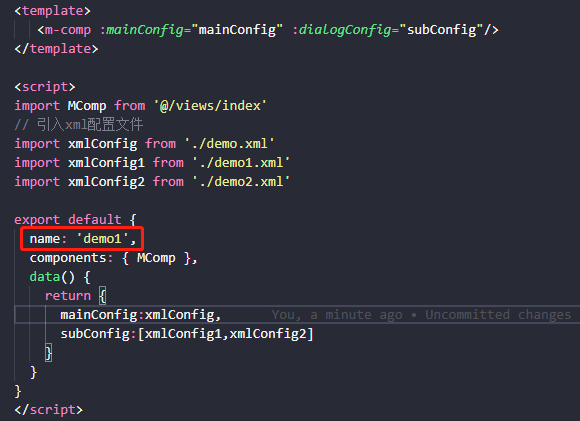
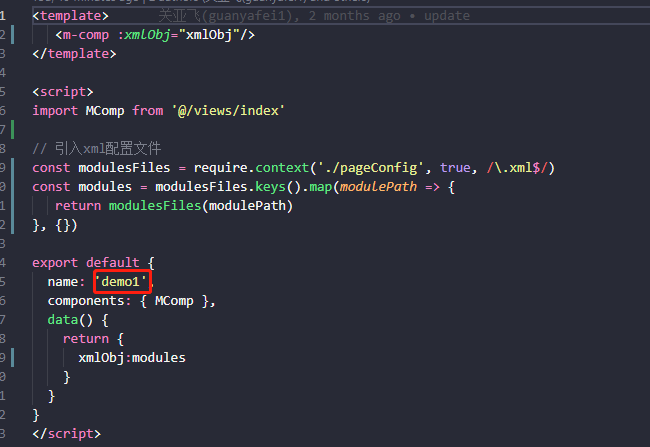
update

Changed region(s): [[0.0, 0.1544, 1.0, 0.9881], [0.0, 0.0, 0.869, 0.1544]]

diff --git a/src/views/index.vue b/src/views/index.vue
@@ -37,11 +37,7 @@ export default {
     }
   },
   props: {
-    mainConfig: {
-      type: Object,
-      default: () => ({})
-    },
-    dialogConfig: {
+    xmlObj: {
       type: Array,
       default: () => []
     }
@@ -50,7 +46,7 @@ export default {
   data() {
     return {
       alertTip: '此操作不可逆, 是否继续?',
-      xmlConfig: this.mainConfig,
+      xmlConfig: null,
       handle: {},
       updateDateObj: {},
       handleMapping: {},
@@ -63,15 +59,12 @@ export default {
     }
   },
   created() {
-    this.xmlConfig= deepClone(this.mainConfig)
-    if (this.xmlConfig === null || !isEmptyObj(this.xmlConfig.root)) return
-    let root = null
-    root = this.xmlConfig.root || {}
-    this.mergeXmlData(root)
-    this.setPopupsConfig(root,['dialog','alert'])
-    this.idToHandle(root)
-    this.rootData = Object.assign(this.rootData,root)
-    this.idToFun()
+    this.xmlConfig= deepClone(this.xmlObj)
+    if (this.xmlConfig === null || this.xmlConfig.length===0) return
+    this.mergeXmlData(this.xmlConfig)
+    this.setPopupsConfig(this.xmlConfig,['dialog','alert'])
+    this.idToHandle(this.rootData)
+    this.idToSubmitFun()
     this.optionItems = options[this.$route.name] || {}
   },
   computed:{
@@ -83,19 +76,19 @@ export default {
   mounted() {},
   methods: {
     // 数据合并
-    mergeXmlData(root){
-      let itemObj=null
-      if(this.dialogConfig.length>0){
-          for(let i=0;i<this.dialogConfig.length;i++){
-            itemObj = this.dialogConfig[i].root
-            Object.keys(itemObj).forEach(key=>{
-              if(!root.hasOwnProperty(key)){
-                root[key] = []
-              }
-               root[key].splice(0,0,...itemObj[key])
-            })
+    mergeXmlData(configs){
+      if(configs.length<1) return
+      let itemObj=null,firstItem = configs.shift();
+      for(let i=0;i<configs.length;i++){
+        itemObj = configs[i].root
+        Object.keys(itemObj).forEach(key=>{
+          if(!firstItem.root.hasOwnProperty(key)){
+            firstItem.root[key] = []
           }
+            firstItem.root[key].splice(0,0,...itemObj[key])
+        })
       }
+      this.rootData = Object.assign(this.rootData,firstItem['root'])
     },
     // id与handle映射
     idToHandle(root) {
@@ -125,20 +118,24 @@ export default {
       return root;
     },
     // 弹窗处理--多个按钮操作一个弹窗  dialog
-    setPopupsConfig(root,keys=[]) {
-      for(let j=0;j<keys.length;j++){
-        let key = keys[j]
-        if (root[key] && root[key].length > 0) {
-          const tempArr = [];let tempId = 0;let item = null;
-          for(let i=root[key].length-1;i >= 0; i--){
-            item = root[key][i];
-            tempId = item.$._id
-            if (!tempId || !tempId.includes('|')) continue
-            tempArr.push(...this.doubleIdReset(item,tempId))
+    setPopupsConfig(configs,keys=[]) {
+      let cfgItem = null
+      for(let i=0;i<configs.length;i++){
+        cfgItem = configs[i].root || []
+        for(let j=0;j<keys.length;j++){
+          let key = keys[j]
+          if (cfgItem[key] && cfgItem[key].length > 0) {
+            const tempArr = [];let tempId = 0;let item = null;
+            for(let i=cfgItem[key].length-1;i >= 0; i--){
+              item = cfgItem[key][i];
+              tempId = item.$._id
+              if (!tempId || !tempId.includes('|')) continue
+              tempArr.push(...this.doubleIdReset(item,tempId))
+            }
+            cfgItem[key].splice(0,0,...tempArr)
+            this.delDoubleId(cfgItem,key)
           }
-          root[key].splice(0,0,...tempArr)
         }
-        this.delDoubleId(root,key)
       }
     },
     // 双_id配置项数据重组设置
@@ -174,8 +171,8 @@ export default {
         if(tempId && tempId.includes('|')) root[key].splice(i, 1)
       }
     },
-    // id to fun params查询参数
-    idToFun() {
+    // id to fun params查询
+    idToSubmitFun() {
       Object.keys(this.handleMapping).map(itemKey => {
         if (isEmptyObj(this.handleMapping[itemKey]._id)) {
           // btnConfig 用于主页面查询  新增

diff --git a/src/views/demo/demo1/index.vue b/src/views/demo/demo1/index.vue
@@ -1,21 +1,22 @@
 <template>
-   <m-comp :mainConfig="mainConfig" :dialogConfig="subConfig"/>
+   <m-comp :xmlObj="xmlObj"/>
 </template>
 
 <script>
 import MComp from '@/views/index'
+
 // 引入xml配置文件
-import xmlConfig from './demo.xml'
-import xmlConfig1 from './demo1.xml'
-import xmlConfig2 from './demo2.xml'
+const modulesFiles = require.context('./pageConfig', true, /\.xml$/)
+const modules = modulesFiles.keys().map(modulePath => {
+   return modulesFiles(modulePath)
+}, {})
 
 export default {
   name: 'demo1',
   components: { MComp },
   data() {
     return {
-      mainConfig:xmlConfig,
-      subConfig:[xmlConfig1,xmlConfig2]
+      xmlObj:modules
     }
   }
 }

diff --git a/src/store/index.js b/src/store/index.js
@@ -4,11 +4,8 @@ import getters from './getters'
 
 Vue.use(Vuex)
 
-// https://webpack.js.org/guides/dependency-management/#requirecontext
 const modulesFiles = require.context('./modules', true, /\.js$/)
 
-// you do not need `import app from './modules/app'`
-// it will auto require all vuex module from modules file
 const modules = modulesFiles.keys().reduce((modules, modulePath) => {
     // set './app.js' => 'app'
     const moduleName = modulePath.replace(/^\.\/(.*)\.\w+$/, '$1')

diff --git a/doc.md b/doc.md
@@ -2,23 +2,19 @@
 > #### 一、目录
 >> - 一级目录： src/views下建文件夹
 >> - 二级目录： 一级目录下建文件夹
->>- 页面入口： 二级目录下index.vue
->> - xml配置文件： 入口文件同级
+>>- 入口文件： 二级目录下index.vue
+>> - xml配置文件： 入口文件同级文件夹pageConfig下新建xml文件
+>> ![目录](./src/assets/doc_img/xml.png) 
 > #### 二、主副页面配置规则
 >> - ##### 主页面
 >>   \<root>\<main  _id="main">配置项\</main>\</root>
 >> - ##### 副业面（弹窗）
 >>   \<root>配置项\</root>
->> - **注**
+> #### **注意事项**
 >> 1.只能有一个主页面
 >> 2.主页面只能有一个root和main标签
 >> 3.副页面（弹窗）只能有一个root标签且不能有main标签
-> ### 三、引入xml配置文件规则
->> - 主页面配置引入后赋值给root，无则空对象
->> ![主页面](./src/assets/doc_img/main.png)
->> - 弹窗配置引入后值添加到subConfig数组，无则空数组
->> ![弹窗](./src/assets/doc_img/sub.png) 
->> - 入口页面index.vue必须配置name字段 且值与路由中配置的name值一致 且必须保证唯一性 
+>> 4.入口页面index.vue必须配置name字段 且值与路由中配置的name值一致 且必须保证唯一性 
 >> ![页面入口](./src/assets/doc_img/name.png) 
 
 ## 标签配置
